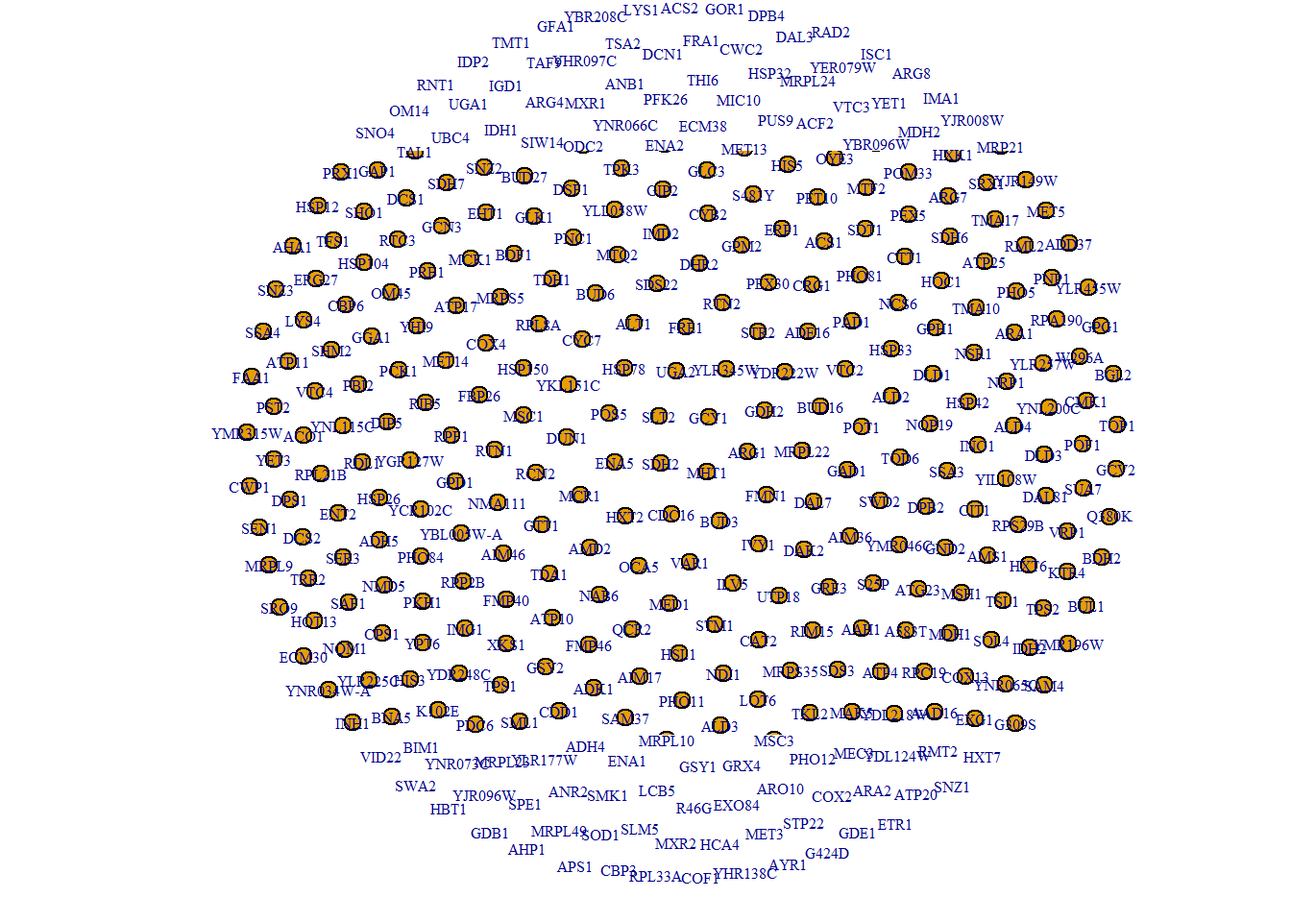
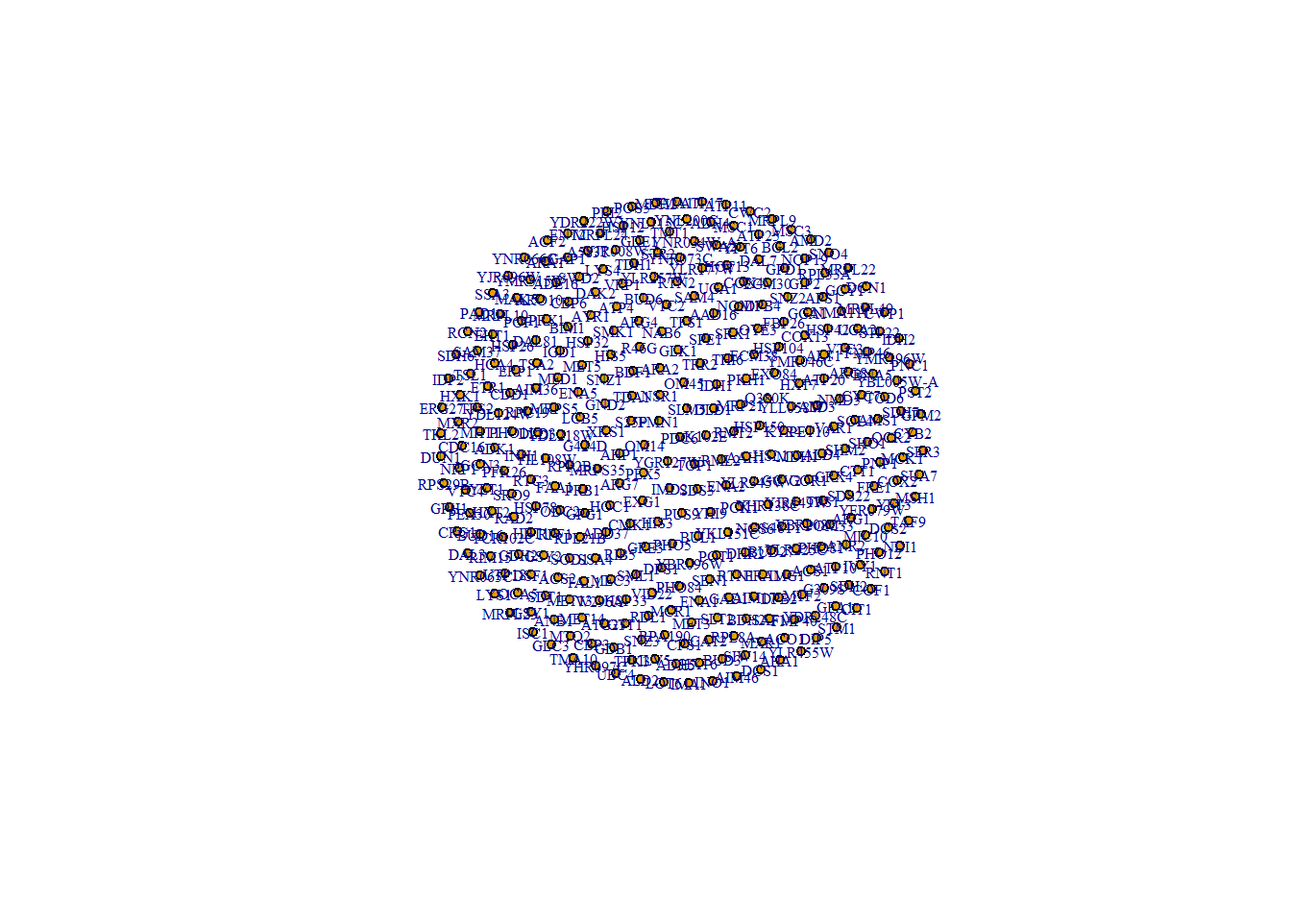
f

Changed region(s): [[0.1562, 0.0, 0.875, 0.9688]]

diff --git a/docs/posts/Final Post/index.html b/docs/posts/Final Post/index.html
@@ -292,15 +292,16 @@ Attaching package: 'igraph'</code></pre>
 <div class="sourceCode cell-code" id="cb7"><pre class="sourceCode r code-with-copy"><code class="sourceCode r"><span id="cb7-1"><a href="#cb7-1" aria-hidden="true" tabindex="-1"></a><span class="co"># Visualize 350 nodes corresponding to the significant hits in our data</span></span>
 <span id="cb7-2"><a href="#cb7-2" aria-hidden="true" tabindex="-1"></a>nodes <span class="ot">&lt;-</span> <span class="fu">unique</span>(<span class="fu">c</span>(proteomic<span class="sc">$</span>contrast, proteomic<span class="sc">$</span>Gene))</span>
 <span id="cb7-3"><a href="#cb7-3" aria-hidden="true" tabindex="-1"></a></span>
-<span id="cb7-4"><a href="#cb7-4" aria-hidden="true" tabindex="-1"></a>g <span class="ot">&lt;-</span> <span class="fu">make_empty_graph</span>()</span>
+<span id="cb7-4"><a href="#cb7-4" aria-hidden="true" tabindex="-1"></a>g <span class="ot">&lt;-</span> <span class="fu">make_empty_graph</span>(<span class="at">directed =</span> <span class="cn">FALSE</span>)</span>
 <span id="cb7-5"><a href="#cb7-5" aria-hidden="true" tabindex="-1"></a>g <span class="ot">&lt;-</span> <span class="fu">add_vertices</span>(g, <span class="fu">length</span>(nodes))</span>
 <span id="cb7-6"><a href="#cb7-6" aria-hidden="true" tabindex="-1"></a><span class="fu">V</span>(g)<span class="sc">$</span>name <span class="ot">&lt;-</span> nodes</span>
 <span id="cb7-7"><a href="#cb7-7" aria-hidden="true" tabindex="-1"></a></span>
 <span id="cb7-8"><a href="#cb7-8" aria-hidden="true" tabindex="-1"></a><span class="fu">plot</span>(g, </span>
 <span id="cb7-9"><a href="#cb7-9" aria-hidden="true" tabindex="-1"></a>     <span class="at">margin =</span> <span class="sc">-</span>.<span class="dv">4</span>,</span>
 <span id="cb7-10"><a href="#cb7-10" aria-hidden="true" tabindex="-1"></a>     <span class="at">vertex.size =</span> <span class="dv">4</span>,</span>
-<span id="cb7-11"><a href="#cb7-11" aria-hidden="true" tabindex="-1"></a>     <span class="at">vertex.label.cex =</span> .<span class="dv">5</span></span>
-<span id="cb7-12"><a href="#cb7-12" aria-hidden="true" tabindex="-1"></a>     )</span></code><button title="Copy to Clipboard" class="code-copy-button"><i class="bi"></i></button></pre></div>
+<span id="cb7-11"><a href="#cb7-11" aria-hidden="true" tabindex="-1"></a>     <span class="at">vertex.label.cex =</span> .<span class="dv">5</span>,</span>
+<span id="cb7-12"><a href="#cb7-12" aria-hidden="true" tabindex="-1"></a>     <span class="at">xlim=</span><span class="fu">c</span>(<span class="sc">-</span><span class="fl">1.5</span>, <span class="fl">1.5</span>), <span class="at">ylim=</span><span class="fu">c</span>(<span class="sc">-</span><span class="fl">1.5</span>,<span class="fl">1.5</span>) </span>
+<span id="cb7-13"><a href="#cb7-13" aria-hidden="true" tabindex="-1"></a>     )</span></code><button title="Copy to Clipboard" class="code-copy-button"><i class="bi"></i></button></pre></div>
 </details>
 <div class="cell-output-display">
 <p><img src="index_files/figure-html/unnamed-chunk-4-1.png" class="img-fluid" width="672"></p>
@@ -322,8 +323,46 @@ Attaching package: 'igraph'</code></pre>
 <span id="cb8-4"><a href="#cb8-4" aria-hidden="true" tabindex="-1"></a>  <span class="at">LogFC =</span> proteomic<span class="sc">$</span>logFC,</span>
 <span id="cb8-5"><a href="#cb8-5" aria-hidden="true" tabindex="-1"></a>  <span class="at">p =</span> proteomic<span class="sc">$</span>P.Value</span>
 <span id="cb8-6"><a href="#cb8-6" aria-hidden="true" tabindex="-1"></a>  </span>
-<span id="cb8-7"><a href="#cb8-7" aria-hidden="true" tabindex="-1"></a>)</span></code><button title="Copy to Clipboard" class="code-copy-button"><i class="bi"></i></button></pre></div>
+<span id="cb8-7"><a href="#cb8-7" aria-hidden="true" tabindex="-1"></a>)</span>
+<span id="cb8-8"><a href="#cb8-8" aria-hidden="true" tabindex="-1"></a></span>
+<span id="cb8-9"><a href="#cb8-9" aria-hidden="true" tabindex="-1"></a><span class="co"># Convert edge list to indices</span></span>
+<span id="cb8-10"><a href="#cb8-10" aria-hidden="true" tabindex="-1"></a>edges<span class="sc">$</span>from <span class="ot">&lt;-</span> <span class="fu">match</span>(edges<span class="sc">$</span>from, nodes)</span>
+<span id="cb8-11"><a href="#cb8-11" aria-hidden="true" tabindex="-1"></a>edges<span class="sc">$</span>to <span class="ot">&lt;-</span> <span class="fu">match</span>(edges<span class="sc">$</span>to, nodes)</span>
+<span id="cb8-12"><a href="#cb8-12" aria-hidden="true" tabindex="-1"></a></span>
+<span id="cb8-13"><a href="#cb8-13" aria-hidden="true" tabindex="-1"></a><span class="co"># create a list of alternating values from 'from' and 'to' columns</span></span>
+<span id="cb8-14"><a href="#cb8-14" aria-hidden="true" tabindex="-1"></a>edge_list <span class="ot">&lt;-</span> <span class="fu">c</span>(<span class="fu">rbind</span>(edges<span class="sc">$</span>from, edges<span class="sc">$</span>to))</span>
+<span id="cb8-15"><a href="#cb8-15" aria-hidden="true" tabindex="-1"></a></span>
+<span id="cb8-16"><a href="#cb8-16" aria-hidden="true" tabindex="-1"></a>g <span class="ot">&lt;-</span> <span class="fu">add_edges</span>(g, <span class="at">edges =</span> edge_list)</span>
+<span id="cb8-17"><a href="#cb8-17" aria-hidden="true" tabindex="-1"></a></span>
+<span id="cb8-18"><a href="#cb8-18" aria-hidden="true" tabindex="-1"></a><span class="co"># Specify edge length based on attribute: LogFC, but undo the Log base 2 so larger LogFC have more influence</span></span>
+<span id="cb8-19"><a href="#cb8-19" aria-hidden="true" tabindex="-1"></a></span>
+<span id="cb8-20"><a href="#cb8-20" aria-hidden="true" tabindex="-1"></a>edge_weights <span class="ot">&lt;-</span> <span class="fu">abs</span>(edges<span class="sc">$</span>LogFC)<span class="sc">^</span><span class="dv">2</span> <span class="sc">+</span> <span class="dv">10</span></span>
+<span id="cb8-21"><a href="#cb8-21" aria-hidden="true" tabindex="-1"></a><span class="fu">E</span>(g)<span class="sc">$</span>weight <span class="ot">&lt;-</span> edge_weights</span>
+<span id="cb8-22"><a href="#cb8-22" aria-hidden="true" tabindex="-1"></a></span>
+<span id="cb8-23"><a href="#cb8-23" aria-hidden="true" tabindex="-1"></a><span class="co"># Plot the network</span></span>
+<span id="cb8-24"><a href="#cb8-24" aria-hidden="true" tabindex="-1"></a><span class="fu">plot</span>(g,</span>
+<span id="cb8-25"><a href="#cb8-25" aria-hidden="true" tabindex="-1"></a>     <span class="at">margin =</span> <span class="sc">-</span><span class="dv">1</span>,</span>
+<span id="cb8-26"><a href="#cb8-26" aria-hidden="true" tabindex="-1"></a>     <span class="at">vertex.size =</span> <span class="dv">4</span>,</span>
+<span id="cb8-27"><a href="#cb8-27" aria-hidden="true" tabindex="-1"></a>     <span class="at">vertex.label.cex =</span> .<span class="dv">5</span>,</span>
+<span id="cb8-28"><a href="#cb8-28" aria-hidden="true" tabindex="-1"></a>     <span class="at">edge_arrow_mode =</span> <span class="dv">0</span>,</span>
+<span id="cb8-29"><a href="#cb8-29" aria-hidden="true" tabindex="-1"></a>     <span class="at">xlim=</span><span class="fu">c</span>(<span class="sc">-</span><span class="dv">2</span>, <span class="dv">2</span>), <span class="at">ylim=</span><span class="fu">c</span>(<span class="sc">-</span><span class="dv">2</span>, <span class="dv">2</span>)</span>
+<span id="cb8-30"><a href="#cb8-30" aria-hidden="true" tabindex="-1"></a>     )</span></code><button title="Copy to Clipboard" class="code-copy-button"><i class="bi"></i></button></pre></div>
 </details>
+<div class="cell-output-display">
+<p><img src="index_files/figure-html/unnamed-chunk-5-1.png" class="img-fluid" width="672"></p>
+</div>
+<details>
+<summary>Code</summary>
+<div class="sourceCode cell-code" id="cb9"><pre class="sourceCode r code-with-copy"><code class="sourceCode r"><span id="cb9-1"><a href="#cb9-1" aria-hidden="true" tabindex="-1"></a><span class="fu">plot</span>(g,</span>
+<span id="cb9-2"><a href="#cb9-2" aria-hidden="true" tabindex="-1"></a>     <span class="at">vertex.size =</span> <span class="dv">4</span>,</span>
+<span id="cb9-3"><a href="#cb9-3" aria-hidden="true" tabindex="-1"></a>     <span class="at">vertex.label.cex =</span> .<span class="dv">5</span>,</span>
+<span id="cb9-4"><a href="#cb9-4" aria-hidden="true" tabindex="-1"></a>     <span class="at">edge_arrow_mode =</span> <span class="dv">0</span>,</span>
+<span id="cb9-5"><a href="#cb9-5" aria-hidden="true" tabindex="-1"></a>     <span class="at">xlim=</span><span class="fu">c</span>(<span class="sc">-</span><span class="fl">1.5</span>, <span class="fl">1.5</span>), <span class="at">ylim=</span><span class="fu">c</span>(<span class="sc">-</span><span class="fl">1.5</span>,<span class="fl">1.5</span>)</span>
+<span id="cb9-6"><a href="#cb9-6" aria-hidden="true" tabindex="-1"></a>     )</span></code><button title="Copy to Clipboard" class="code-copy-button"><i class="bi"></i></button></pre></div>
+</details>
+<div class="cell-output-display">
+<p><img src="index_files/figure-html/unnamed-chunk-5-2.png" class="img-fluid" width="672"></p>
+</div>
 </div>
 
 
@@ -518,106 +557,138 @@ window.document.addEventListener("DOMContentLoaded", function (event) {
   }
 });
 </script><div class="modal fade" id="quarto-embedded-source-code-modal" tabindex="-1" aria-labelledby="quarto-embedded-source-code-modal-label" aria-hidden="true"><div class="modal-dialog modal-dialog-scrollable"><div class="modal-content"><div class="modal-header"><h5 class="modal-title" id="quarto-embedded-source-code-modal-label">Source Code</h5><button class="btn-close" data-bs-dismiss="modal"></button></div><div class="modal-body"><div class="">
-<div class="sourceCode" id="cb9" data-shortcodes="false"><pre class="sourceCode markdown code-with-copy"><code class="sourceCode markdown"><span id="cb9-1"><a href="#cb9-1" aria-hidden="true" tabindex="-1"></a><span class="co">---</span></span>
-<span id="cb9-2"><a href="#cb9-2" aria-hidden="true" tabindex="-1"></a><span class="an">title:</span><span class="co"> "BCB 520 - The Final Portfolio Post"</span></span>
-<span id="cb9-3"><a href="#cb9-3" aria-hidden="true" tabindex="-1"></a><span class="an">subtitle:</span><span class="co"> "Hsp90"</span></span>
-<span id="cb9-4"><a href="#cb9-4" aria-hidden="true" tabindex="-1"></a><span class="an">format:</span></span>
-<span id="cb9-5"><a href="#cb9-5" aria-hidden="true" tabindex="-1"></a><span class="co">  html:</span></span>
-<span id="cb9-6"><a href="#cb9-6" aria-hidden="true" tabindex="-1"></a><span class="co">    toc: false</span></span>
-<span id="cb9-7"><a href="#cb9-7" aria-hidden="true" tabindex="-1"></a><span class="co">    echo: true</span></span>
-<span id="cb9-8"><a href="#cb9-8" aria-hidden="true" tabindex="-1"></a><span class="an">author:</span><span class="co"> "Erick Rios"</span></span>
-<span id="cb9-9"><a href="#cb9-9" aria-hidden="true" tabindex="-1"></a><span class="an">date:</span><span class="co"> "2023-05-03"</span></span>
-<span id="cb9-10"><a href="#cb9-10" aria-hidden="true" tabindex="-1"></a><span class="an">categories:</span><span class="co"> [Portfolio, DataViz, Network, Observable, Assignment]</span></span>
-<span id="cb9-11"><a href="#cb9-11" aria-hidden="true" tabindex="-1"></a><span class="an">image:</span><span class="co"> "yeastbud.png"</span></span>
-<span id="cb9-12"><a href="#cb9-12" aria-hidden="true" tabindex="-1"></a><span class="an">description:</span><span class="co"> "Research"</span></span>
-<span id="cb9-13"><a href="#cb9-13" aria-hidden="true" tabindex="-1"></a><span class="an">code-fold:</span><span class="co"> true</span></span>
-<span id="cb9-14"><a href="#cb9-14" aria-hidden="true" tabindex="-1"></a><span class="an">code-tools:</span><span class="co"> true</span></span>
-<span id="cb9-15"><a href="#cb9-15" aria-hidden="true" tabindex="-1"></a><span class="co">---</span></span>
-<span id="cb9-16"><a href="#cb9-16" aria-hidden="true" tabindex="-1"></a></span>
-<span id="cb9-17"><a href="#cb9-17" aria-hidden="true" tabindex="-1"></a><span class="fu"># The Preamble</span></span>
-<span id="cb9-18"><a href="#cb9-18" aria-hidden="true" tabindex="-1"></a></span>
-<span id="cb9-19"><a href="#cb9-19" aria-hidden="true" tabindex="-1"></a>The focus of my research is the study of Hsp90 molecular chaperone. Over the decades we come to realize this chaperone sits as a major hub of protein-protein interactions (CITE GOPINATH) in which it regulates the folding, activity, and degradation of its clients.</span>
-<span id="cb9-20"><a href="#cb9-20" aria-hidden="true" tabindex="-1"></a></span>
-<span id="cb9-21"><a href="#cb9-21" aria-hidden="true" tabindex="-1"></a>The current study expands the proteomic analysis previously done by us (CITE GENETICS PAPER), here we use quantitative proteomic analysis to compare extracts from yeast expressing wild-type yeast Hsp90 to nine different mutants. Our results demonstrate that the mutants elicit varied proteomic responses, even though the cells were harvested at temperatures that do not significantly affect growth. Overall, these results suggest:</span>
-<span id="cb9-22"><a href="#cb9-22" aria-hidden="true" tabindex="-1"></a></span>
-<span id="cb9-23"><a href="#cb9-23" aria-hidden="true" tabindex="-1"></a><span class="ss">1.  </span>It is possible to selectively inhibit Hsp90 function *in vivo*, and</span>
-<span id="cb9-24"><a href="#cb9-24" aria-hidden="true" tabindex="-1"></a></span>
-<span id="cb9-25"><a href="#cb9-25" aria-hidden="true" tabindex="-1"></a><span class="ss">2.  </span>Identifies **cellular processes** and/or likely **clients** that may be differentially affected by Hsc82 mutation.</span>
-<span id="cb9-26"><a href="#cb9-26" aria-hidden="true" tabindex="-1"></a></span>
-<span id="cb9-27"><a href="#cb9-27" aria-hidden="true" tabindex="-1"></a><span class="fu"># Data</span></span>
-<span id="cb9-28"><a href="#cb9-28" aria-hidden="true" tabindex="-1"></a></span>
-<span id="cb9-29"><a href="#cb9-29" aria-hidden="true" tabindex="-1"></a>Data source:</span>
-<span id="cb9-30"><a href="#cb9-30" aria-hidden="true" tabindex="-1"></a></span>
-<span id="cb9-31"><a href="#cb9-31" aria-hidden="true" tabindex="-1"></a><span class="ss">1.  </span>Main data used in this analysis are the results of Data Independent Acquisition Mass Spectrometry (DIA-MS) experiments, a technique for quantitative proteomics. This is the crux of our study. For brevity, the data has been pre-filtered for significant hits of interest for analysis.</span>
-<span id="cb9-32"><a href="#cb9-32" aria-hidden="true" tabindex="-1"></a></span>
-<span id="cb9-33"><a href="#cb9-33" aria-hidden="true" tabindex="-1"></a><span class="ss">2.  </span>Supporting data/information publicly available on *Saccharomyces Genome Database (SGD)* (MAKE LINK)</span>
-<span id="cb9-34"><a href="#cb9-34" aria-hidden="true" tabindex="-1"></a></span>
-<span id="cb9-35"><a href="#cb9-35" aria-hidden="true" tabindex="-1"></a><span class="ss">-   </span>List of currently known protein **physical** interactors of Hsp90 (Both Hsc82 and Hsp82 isoforms)</span>
-<span id="cb9-36"><a href="#cb9-36" aria-hidden="true" tabindex="-1"></a><span class="ss">-   </span>List of currently known protein **genetic** interactors of Hsp90 (Both Hsc82 and Hsp82 isoforms)</span>
-<span id="cb9-37"><a href="#cb9-37" aria-hidden="true" tabindex="-1"></a><span class="ss">-   </span>Results GO term analysis using GO Slim Mapper</span>
-<span id="cb9-38"><a href="#cb9-38" aria-hidden="true" tabindex="-1"></a></span>
-<span id="cb9-39"><a href="#cb9-39" aria-hidden="true" tabindex="-1"></a><span class="ss">3.  </span>Supporting data/information publicly available on</span>
-<span id="cb9-40"><a href="#cb9-40" aria-hidden="true" tabindex="-1"></a></span>
-<span id="cb9-41"><a href="#cb9-41" aria-hidden="true" tabindex="-1"></a><span class="ss">-   </span>Physical protein attributes such as molecular weight, hydrophobicity, etc.</span>
-<span id="cb9-42"><a href="#cb9-42" aria-hidden="true" tabindex="-1"></a></span>
-<span id="cb9-45"><a href="#cb9-45" aria-hidden="true" tabindex="-1"></a><span class="in">```{r}</span></span>
-<span id="cb9-46"><a href="#cb9-46" aria-hidden="true" tabindex="-1"></a><span class="co"># Load in our data</span></span>
-<span id="cb9-47"><a href="#cb9-47" aria-hidden="true" tabindex="-1"></a>proteomic <span class="ot">&lt;-</span> <span class="fu">read.csv</span>(<span class="st">"trimmed_proteomic_Data.csv"</span>)</span>
-<span id="cb9-48"><a href="#cb9-48" aria-hidden="true" tabindex="-1"></a></span>
-<span id="cb9-49"><a href="#cb9-49" aria-hidden="true" tabindex="-1"></a></span>
-<span id="cb9-50"><a href="#cb9-50" aria-hidden="true" tabindex="-1"></a><span class="in">```</span></span>
-<span id="cb9-51"><a href="#cb9-51" aria-hidden="true" tabindex="-1"></a></span>
-<span id="cb9-52"><a href="#cb9-52" aria-hidden="true" tabindex="-1"></a>Data Dictionary</span>
-<span id="cb9-53"><a href="#cb9-53" aria-hidden="true" tabindex="-1"></a></span>
-<span id="cb9-56"><a href="#cb9-56" aria-hidden="true" tabindex="-1"></a><span class="in">```{r}</span></span>
-<span id="cb9-57"><a href="#cb9-57" aria-hidden="true" tabindex="-1"></a><span class="in">```</span></span>
-<span id="cb9-58"><a href="#cb9-58" aria-hidden="true" tabindex="-1"></a></span>
-<span id="cb9-59"><a href="#cb9-59" aria-hidden="true" tabindex="-1"></a><span class="fu"># Visualization</span></span>
-<span id="cb9-60"><a href="#cb9-60" aria-hidden="true" tabindex="-1"></a></span>
-<span id="cb9-61"><a href="#cb9-61" aria-hidden="true" tabindex="-1"></a><span class="fu">## Creating Figure 1: Basic static 'network'</span></span>
-<span id="cb9-62"><a href="#cb9-62" aria-hidden="true" tabindex="-1"></a></span>
-<span id="cb9-65"><a href="#cb9-65" aria-hidden="true" tabindex="-1"></a><span class="in">```{r}</span></span>
-<span id="cb9-66"><a href="#cb9-66" aria-hidden="true" tabindex="-1"></a><span class="fu">library</span>(igraph)</span>
-<span id="cb9-67"><a href="#cb9-67" aria-hidden="true" tabindex="-1"></a><span class="in">```</span></span>
-<span id="cb9-68"><a href="#cb9-68" aria-hidden="true" tabindex="-1"></a></span>
-<span id="cb9-69"><a href="#cb9-69" aria-hidden="true" tabindex="-1"></a><span class="fu">### NODES</span></span>
-<span id="cb9-70"><a href="#cb9-70" aria-hidden="true" tabindex="-1"></a></span>
-<span id="cb9-71"><a href="#cb9-71" aria-hidden="true" tabindex="-1"></a>Since our objective is to construct a protein interaction network, intuitively our nodes will be our significant hits found in our study. However, we must also include our experimental variables, in this case single point mutations in the Hsp90 chaperone, this will help promote separation/clustering between nodes later when we apply our measurements from DIA-MS.</span>
-<span id="cb9-72"><a href="#cb9-72" aria-hidden="true" tabindex="-1"></a></span>
-<span id="cb9-75"><a href="#cb9-75" aria-hidden="true" tabindex="-1"></a><span class="in">```{r}</span></span>
-<span id="cb9-76"><a href="#cb9-76" aria-hidden="true" tabindex="-1"></a><span class="co"># Visualize 350 nodes corresponding to the significant hits in our data</span></span>
-<span id="cb9-77"><a href="#cb9-77" aria-hidden="true" tabindex="-1"></a>nodes <span class="ot">&lt;-</span> <span class="fu">unique</span>(<span class="fu">c</span>(proteomic<span class="sc">$</span>contrast, proteomic<span class="sc">$</span>Gene))</span>
-<span id="cb9-78"><a href="#cb9-78" aria-hidden="true" tabindex="-1"></a></span>
-<span id="cb9-79"><a href="#cb9-79" aria-hidden="true" tabindex="-1"></a>g <span class="ot">&lt;-</span> <span class="fu">make_empty_graph</span>()</span>
-<span id="cb9-80"><a href="#cb9-80" aria-hidden="true" tabindex="-1"></a>g <span class="ot">&lt;-</span> <span class="fu">add_vertices</span>(g, <span class="fu">length</span>(nodes))</span>
-<span id="cb9-81"><a href="#cb9-81" aria-hidden="true" tabindex="-1"></a><span class="fu">V</span>(g)<span class="sc">$</span>name <span class="ot">&lt;-</span> nodes</span>
-<span id="cb9-82"><a href="#cb9-82" aria-hidden="true" tabindex="-1"></a></span>
-<span id="cb9-83"><a href="#cb9-83" aria-hidden="true" tabindex="-1"></a><span class="fu">plot</span>(g, </span>
-<span id="cb9-84"><a href="#cb9-84" aria-hidden="true" tabindex="-1"></a>     <span class="at">margin =</span> <span class="sc">-</span>.<span class="dv">4</span>,</span>
-<span id="cb9-85"><a href="#cb9-85" aria-hidden="true" tabindex="-1"></a>     <span class="at">vertex.size =</span> <span class="dv">4</span>,</span>
-<span id="cb9-86"><a href="#cb9-86" aria-hidden="true" tabindex="-1"></a>     <span class="at">vertex.label.cex =</span> .<span class="dv">5</span></span>
-<span id="cb9-87"><a href="#cb9-87" aria-hidden="true" tabindex="-1"></a>     )</span>
-<span id="cb9-88"><a href="#cb9-88" aria-hidden="true" tabindex="-1"></a><span class="in">```</span></span>
-<span id="cb9-89"><a href="#cb9-89" aria-hidden="true" tabindex="-1"></a></span>
-<span id="cb9-90"><a href="#cb9-90" aria-hidden="true" tabindex="-1"></a>Now we must establish the relationship between these nodes. Starting with the relationship between our protein hits and experimental variables (Hsp90 mutants). These proteins were found to have a significant change in abundance when at least one mutant Hsp90 is expressed as the sole source of Hsp90.</span>
-<span id="cb9-91"><a href="#cb9-91" aria-hidden="true" tabindex="-1"></a></span>
-<span id="cb9-92"><a href="#cb9-92" aria-hidden="true" tabindex="-1"></a><span class="ss">-   </span>Color the edges of the protein-mutant relationship based on increase or decrease (green / red;consider color blind plebs though.)</span>
-<span id="cb9-93"><a href="#cb9-93" aria-hidden="true" tabindex="-1"></a></span>
-<span id="cb9-94"><a href="#cb9-94" aria-hidden="true" tabindex="-1"></a><span class="ss">-   </span>Edge thickness can be p value of measurement and/or</span>
-<span id="cb9-95"><a href="#cb9-95" aria-hidden="true" tabindex="-1"></a></span>
-<span id="cb9-96"><a href="#cb9-96" aria-hidden="true" tabindex="-1"></a><span class="ss">-   </span>edge color opacity/transparency for p value</span>
-<span id="cb9-97"><a href="#cb9-97" aria-hidden="true" tabindex="-1"></a></span>
-<span id="cb9-98"><a href="#cb9-98" aria-hidden="true" tabindex="-1"></a><span class="ss">-   </span>Edge length will be Log base 2 fold change; this will pull proteins nodes towards mutants that have significant impact on said protein</span>
-<span id="cb9-99"><a href="#cb9-99" aria-hidden="true" tabindex="-1"></a></span>
-<span id="cb9-102"><a href="#cb9-102" aria-hidden="true" tabindex="-1"></a><span class="in">```{r}</span></span>
-<span id="cb9-103"><a href="#cb9-103" aria-hidden="true" tabindex="-1"></a>edges <span class="ot">&lt;-</span> <span class="fu">data.frame</span>(</span>
-<span id="cb9-104"><a href="#cb9-104" aria-hidden="true" tabindex="-1"></a>  <span class="at">from =</span> proteomic<span class="sc">$</span>Gene,</span>
-<span id="cb9-105"><a href="#cb9-105" aria-hidden="true" tabindex="-1"></a>  <span class="at">to =</span> proteomic<span class="sc">$</span>contrast,</span>
-<span id="cb9-106"><a href="#cb9-106" aria-hidden="true" tabindex="-1"></a>  <span class="at">LogFC =</span> proteomic<span class="sc">$</span>logFC,</span>
-<span id="cb9-107"><a href="#cb9-107" aria-hidden="true" tabindex="-1"></a>  <span class="at">p =</span> proteomic<span class="sc">$</span>P.Value</span>
-<span id="cb9-108"><a href="#cb9-108" aria-hidden="true" tabindex="-1"></a>  </span>
-<span id="cb9-109"><a href="#cb9-109" aria-hidden="true" tabindex="-1"></a>)</span>
-<span id="cb9-110"><a href="#cb9-110" aria-hidden="true" tabindex="-1"></a><span class="in">```</span></span>
+<div class="sourceCode" id="cb10" data-shortcodes="false"><pre class="sourceCode markdown code-with-copy"><code class="sourceCode markdown"><span id="cb10-1"><a href="#cb10-1" aria-hidden="true" tabindex="-1"></a><span class="co">---</span></span>
+<span id="cb10-2"><a href="#cb10-2" aria-hidden="true" tabindex="-1"></a><span class="an">title:</span><span class="co"> "BCB 520 - The Final Portfolio Post"</span></span>
+<span id="cb10-3"><a href="#cb10-3" aria-hidden="true" tabindex="-1"></a><span class="an">subtitle:</span><span class="co"> "Hsp90"</span></span>
+<span id="cb10-4"><a href="#cb10-4" aria-hidden="true" tabindex="-1"></a><span class="an">format:</span></span>
+<span id="cb10-5"><a href="#cb10-5" aria-hidden="true" tabindex="-1"></a><span class="co">  html:</span></span>
+<span id="cb10-6"><a href="#cb10-6" aria-hidden="true" tabindex="-1"></a><span class="co">    toc: false</span></span>
+<span id="cb10-7"><a href="#cb10-7" aria-hidden="true" tabindex="-1"></a><span class="co">    echo: true</span></span>
+<span id="cb10-8"><a href="#cb10-8" aria-hidden="true" tabindex="-1"></a><span class="an">author:</span><span class="co"> "Erick Rios"</span></span>
+<span id="cb10-9"><a href="#cb10-9" aria-hidden="true" tabindex="-1"></a><span class="an">date:</span><span class="co"> "2023-05-03"</span></span>
+<span id="cb10-10"><a href="#cb10-10" aria-hidden="true" tabindex="-1"></a><span class="an">categories:</span><span class="co"> [Portfolio, DataViz, Network, Observable, Assignment]</span></span>
+<span id="cb10-11"><a href="#cb10-11" aria-hidden="true" tabindex="-1"></a><span class="an">image:</span><span class="co"> "yeastbud.png"</span></span>
+<span id="cb10-12"><a href="#cb10-12" aria-hidden="true" tabindex="-1"></a><span class="an">description:</span><span class="co"> "Research"</span></span>
+<span id="cb10-13"><a href="#cb10-13" aria-hidden="true" tabindex="-1"></a><span class="an">code-fold:</span><span class="co"> true</span></span>
+<span id="cb10-14"><a href="#cb10-14" aria-hidden="true" tabindex="-1"></a><span class="an">code-tools:</span><span class="co"> true</span></span>
+<span id="cb10-15"><a href="#cb10-15" aria-hidden="true" tabindex="-1"></a><span class="co">---</span></span>
+<span id="cb10-16"><a href="#cb10-16" aria-hidden="true" tabindex="-1"></a></span>
+<span id="cb10-17"><a href="#cb10-17" aria-hidden="true" tabindex="-1"></a><span class="fu"># The Preamble</span></span>
+<span id="cb10-18"><a href="#cb10-18" aria-hidden="true" tabindex="-1"></a></span>
+<span id="cb10-19"><a href="#cb10-19" aria-hidden="true" tabindex="-1"></a>The focus of my research is the study of Hsp90 molecular chaperone. Over the decades we come to realize this chaperone sits as a major hub of protein-protein interactions (CITE GOPINATH) in which it regulates the folding, activity, and degradation of its clients.</span>
+<span id="cb10-20"><a href="#cb10-20" aria-hidden="true" tabindex="-1"></a></span>
+<span id="cb10-21"><a href="#cb10-21" aria-hidden="true" tabindex="-1"></a>The current study expands the proteomic analysis previously done by us (CITE GENETICS PAPER), here we use quantitative proteomic analysis to compare extracts from yeast expressing wild-type yeast Hsp90 to nine different mutants. Our results demonstrate that the mutants elicit varied proteomic responses, even though the cells were harvested at temperatures that do not significantly affect growth. Overall, these results suggest:</span>
+<span id="cb10-22"><a href="#cb10-22" aria-hidden="true" tabindex="-1"></a></span>
+<span id="cb10-23"><a href="#cb10-23" aria-hidden="true" tabindex="-1"></a><span class="ss">1.  </span>It is possible to selectively inhibit Hsp90 function *in vivo*, and</span>
+<span id="cb10-24"><a href="#cb10-24" aria-hidden="true" tabindex="-1"></a></span>
+<span id="cb10-25"><a href="#cb10-25" aria-hidden="true" tabindex="-1"></a><span class="ss">2.  </span>Identifies **cellular processes** and/or likely **clients** that may be differentially affected by Hsc82 mutation.</span>
+<span id="cb10-26"><a href="#cb10-26" aria-hidden="true" tabindex="-1"></a></span>
+<span id="cb10-27"><a href="#cb10-27" aria-hidden="true" tabindex="-1"></a><span class="fu"># Data</span></span>
+<span id="cb10-28"><a href="#cb10-28" aria-hidden="true" tabindex="-1"></a></span>
+<span id="cb10-29"><a href="#cb10-29" aria-hidden="true" tabindex="-1"></a>Data source:</span>
+<span id="cb10-30"><a href="#cb10-30" aria-hidden="true" tabindex="-1"></a></span>
+<span id="cb10-31"><a href="#cb10-31" aria-hidden="true" tabindex="-1"></a><span class="ss">1.  </span>Main data used in this analysis are the results of Data Independent Acquisition Mass Spectrometry (DIA-MS) experiments, a technique for quantitative proteomics. This is the crux of our study. For brevity, the data has been pre-filtered for significant hits of interest for analysis.</span>
+<span id="cb10-32"><a href="#cb10-32" aria-hidden="true" tabindex="-1"></a></span>
+<span id="cb10-33"><a href="#cb10-33" aria-hidden="true" tabindex="-1"></a><span class="ss">2.  </span>Supporting data/information publicly available on *Saccharomyces Genome Database (SGD)* (MAKE LINK)</span>
+<span id="cb10-34"><a href="#cb10-34" aria-hidden="true" tabindex="-1"></a></span>
+<span id="cb10-35"><a href="#cb10-35" aria-hidden="true" tabindex="-1"></a><span class="ss">-   </span>List of currently known protein **physical** interactors of Hsp90 (Both Hsc82 and Hsp82 isoforms)</span>
+<span id="cb10-36"><a href="#cb10-36" aria-hidden="true" tabindex="-1"></a><span class="ss">-   </span>List of currently known protein **genetic** interactors of Hsp90 (Both Hsc82 and Hsp82 isoforms)</span>
+<span id="cb10-37"><a href="#cb10-37" aria-hidden="true" tabindex="-1"></a><span class="ss">-   </span>Results GO term analysis using GO Slim Mapper</span>
+<span id="cb10-38"><a href="#cb10-38" aria-hidden="true" tabindex="-1"></a></span>
+<span id="cb10-39"><a href="#cb10-39" aria-hidden="true" tabindex="-1"></a><span class="ss">3.  </span>Supporting data/information publicly available on</span>
+<span id="cb10-40"><a href="#cb10-40" aria-hidden="true" tabindex="-1"></a></span>
+<span id="cb10-41"><a href="#cb10-41" aria-hidden="true" tabindex="-1"></a><span class="ss">-   </span>Physical protein attributes such as molecular weight, hydrophobicity, etc.</span>
+<span id="cb10-42"><a href="#cb10-42" aria-hidden="true" tabindex="-1"></a></span>
+<span id="cb10-45"><a href="#cb10-45" aria-hidden="true" tabindex="-1"></a><span class="in">```{r}</span></span>
+<span id="cb10-46"><a href="#cb10-46" aria-hidden="true" tabindex="-1"></a><span class="co"># Load in our data</span></span>
+<span id="cb10-47"><a href="#cb10-47" aria-hidden="true" tabindex="-1"></a>proteomic <span class="ot">&lt;-</span> <span class="fu">read.csv</span>(<span class="st">"trimmed_proteomic_Data.csv"</span>)</span>
+<span id="cb10-48"><a href="#cb10-48" aria-hidden="true" tabindex="-1"></a></span>
+<span id="cb10-49"><a href="#cb10-49" aria-hidden="true" tabindex="-1"></a></span>
+<span id="cb10-50"><a href="#cb10-50" aria-hidden="true" tabindex="-1"></a><span class="in">```</span></span>
+<span id="cb10-51"><a href="#cb10-51" aria-hidden="true" tabindex="-1"></a></span>
+<span id="cb10-52"><a href="#cb10-52" aria-hidden="true" tabindex="-1"></a>Data Dictionary</span>
+<span id="cb10-53"><a href="#cb10-53" aria-hidden="true" tabindex="-1"></a></span>
+<span id="cb10-56"><a href="#cb10-56" aria-hidden="true" tabindex="-1"></a><span class="in">```{r}</span></span>
+<span id="cb10-57"><a href="#cb10-57" aria-hidden="true" tabindex="-1"></a><span class="in">```</span></span>
+<span id="cb10-58"><a href="#cb10-58" aria-hidden="true" tabindex="-1"></a></span>
+<span id="cb10-59"><a href="#cb10-59" aria-hidden="true" tabindex="-1"></a><span class="fu"># Visualization</span></span>
+<span id="cb10-60"><a href="#cb10-60" aria-hidden="true" tabindex="-1"></a></span>
+<span id="cb10-61"><a href="#cb10-61" aria-hidden="true" tabindex="-1"></a><span class="fu">## Creating Figure 1: Basic static 'network'</span></span>
+<span id="cb10-62"><a href="#cb10-62" aria-hidden="true" tabindex="-1"></a></span>
+<span id="cb10-65"><a href="#cb10-65" aria-hidden="true" tabindex="-1"></a><span class="in">```{r}</span></span>
+<span id="cb10-66"><a href="#cb10-66" aria-hidden="true" tabindex="-1"></a><span class="fu">library</span>(igraph)</span>
+<span id="cb10-67"><a href="#cb10-67" aria-hidden="true" tabindex="-1"></a><span class="in">```</span></span>
+<span id="cb10-68"><a href="#cb10-68" aria-hidden="true" tabindex="-1"></a></span>
+<span id="cb10-69"><a href="#cb10-69" aria-hidden="true" tabindex="-1"></a><span class="fu">### NODES</span></span>
+<span id="cb10-70"><a href="#cb10-70" aria-hidden="true" tabindex="-1"></a></span>
+<span id="cb10-71"><a href="#cb10-71" aria-hidden="true" tabindex="-1"></a>Since our objective is to construct a protein interaction network, intuitively our nodes will be our significant hits found in our study. However, we must also include our experimental variables, in this case single point mutations in the Hsp90 chaperone, this will help promote separation/clustering between nodes later when we apply our measurements from DIA-MS.</span>
+<span id="cb10-72"><a href="#cb10-72" aria-hidden="true" tabindex="-1"></a></span>
+<span id="cb10-75"><a href="#cb10-75" aria-hidden="true" tabindex="-1"></a><span class="in">```{r}</span></span>
+<span id="cb10-76"><a href="#cb10-76" aria-hidden="true" tabindex="-1"></a><span class="co"># Visualize 350 nodes corresponding to the significant hits in our data</span></span>
+<span id="cb10-77"><a href="#cb10-77" aria-hidden="true" tabindex="-1"></a>nodes <span class="ot">&lt;-</span> <span class="fu">unique</span>(<span class="fu">c</span>(proteomic<span class="sc">$</span>contrast, proteomic<span class="sc">$</span>Gene))</span>
+<span id="cb10-78"><a href="#cb10-78" aria-hidden="true" tabindex="-1"></a></span>
+<span id="cb10-79"><a href="#cb10-79" aria-hidden="true" tabindex="-1"></a>g <span class="ot">&lt;-</span> <span class="fu">make_empty_graph</span>(<span class="at">directed =</span> <span class="cn">FALSE</span>)</span>
+<span id="cb10-80"><a href="#cb10-80" aria-hidden="true" tabindex="-1"></a>g <span class="ot">&lt;-</span> <span class="fu">add_vertices</span>(g, <span class="fu">length</span>(nodes))</span>
+<span id="cb10-81"><a href="#cb10-81" aria-hidden="true" tabindex="-1"></a><span class="fu">V</span>(g)<span class="sc">$</span>name <span class="ot">&lt;-</span> nodes</span>
+<span id="cb10-82"><a href="#cb10-82" aria-hidden="true" tabindex="-1"></a></span>
+<span id="cb10-83"><a href="#cb10-83" aria-hidden="true" tabindex="-1"></a><span class="fu">plot</span>(g, </span>
+<span id="cb10-84"><a href="#cb10-84" aria-hidden="true" tabindex="-1"></a>     <span class="at">margin =</span> <span class="sc">-</span>.<span class="dv">4</span>,</span>
+<span id="cb10-85"><a href="#cb10-85" aria-hidden="true" tabindex="-1"></a>     <span class="at">vertex.size =</span> <span class="dv">4</span>,</span>
+<span id="cb10-86"><a href="#cb10-86" aria-hidden="true" tabindex="-1"></a>     <span class="at">vertex.label.cex =</span> .<span class="dv">5</span>,</span>
+<span id="cb10-87"><a href="#cb10-87" aria-hidden="true" tabindex="-1"></a>     <span class="at">xlim=</span><span class="fu">c</span>(<span class="sc">-</span><span class="fl">1.5</span>, <span class="fl">1.5</span>), <span class="at">ylim=</span><span class="fu">c</span>(<span class="sc">-</span><span class="fl">1.5</span>,<span class="fl">1.5</span>) </span>
+<span id="cb10-88"><a href="#cb10-88" aria-hidden="true" tabindex="-1"></a>     )</span>
+<span id="cb10-89"><a href="#cb10-89" aria-hidden="true" tabindex="-1"></a><span class="in">```</span></span>
+<span id="cb10-90"><a href="#cb10-90" aria-hidden="true" tabindex="-1"></a></span>
+<span id="cb10-91"><a href="#cb10-91" aria-hidden="true" tabindex="-1"></a>Now we must establish the relationship between these nodes. Starting with the relationship between our protein hits and experimental variables (Hsp90 mutants). These proteins were found to have a significant change in abundance when at least one mutant Hsp90 is expressed as the sole source of Hsp90.</span>
+<span id="cb10-92"><a href="#cb10-92" aria-hidden="true" tabindex="-1"></a></span>
+<span id="cb10-93"><a href="#cb10-93" aria-hidden="true" tabindex="-1"></a><span class="ss">-   </span>Color the edges of the protein-mutant relationship based on increase or decrease (green / red;consider color blind plebs though.)</span>
+<span id="cb10-94"><a href="#cb10-94" aria-hidden="true" tabindex="-1"></a></span>
+<span id="cb10-95"><a href="#cb10-95" aria-hidden="true" tabindex="-1"></a><span class="ss">-   </span>Edge thickness can be p value of measurement and/or</span>
+<span id="cb10-96"><a href="#cb10-96" aria-hidden="true" tabindex="-1"></a></span>
+<span id="cb10-97"><a href="#cb10-97" aria-hidden="true" tabindex="-1"></a><span class="ss">-   </span>edge color opacity/transparency for p value</span>
+<span id="cb10-98"><a href="#cb10-98" aria-hidden="true" tabindex="-1"></a></span>
+<span id="cb10-99"><a href="#cb10-99" aria-hidden="true" tabindex="-1"></a><span class="ss">-   </span>Edge length will be Log base 2 fold change; this will pull proteins nodes towards mutants that have significant impact on said protein</span>
+<span id="cb10-100"><a href="#cb10-100" aria-hidden="true" tabindex="-1"></a></span>
+<span id="cb10-103"><a href="#cb10-103" aria-hidden="true" tabindex="-1"></a><span class="in">```{r}</span></span>
+<span id="cb10-104"><a href="#cb10-104" aria-hidden="true" tabindex="-1"></a>edges <span class="ot">&lt;-</span> <span class="fu">data.frame</span>(</span>
+<span id="cb10-105"><a href="#cb10-105" aria-hidden="true" tabindex="-1"></a>  <span class="at">from =</span> proteomic<span class="sc">$</span>Gene,</span>
+<span id="cb10-106"><a href="#cb10-106" aria-hidden="true" tabindex="-1"></a>  <span class="at">to =</span> proteomic<span class="sc">$</span>contrast,</span>
+<span id="cb10-107"><a href="#cb10-107" aria-hidden="true" tabindex="-1"></a>  <span class="at">LogFC =</span> proteomic<span class="sc">$</span>logFC,</span>
+<span id="cb10-108"><a href="#cb10-108" aria-hidden="true" tabindex="-1"></a>  <span class="at">p =</span> proteomic<span class="sc">$</span>P.Value</span>
+<span id="cb10-109"><a href="#cb10-109" aria-hidden="true" tabindex="-1"></a>  </span>
+<span id="cb10-110"><a href="#cb10-110" aria-hidden="true" tabindex="-1"></a>)</span>
+<span id="cb10-111"><a href="#cb10-111" aria-hidden="true" tabindex="-1"></a></span>
+<span id="cb10-112"><a href="#cb10-112" aria-hidden="true" tabindex="-1"></a><span class="co"># Convert edge list to indices</span></span>
+<span id="cb10-113"><a href="#cb10-113" aria-hidden="true" tabindex="-1"></a>edges<span class="sc">$</span>from <span class="ot">&lt;-</span> <span class="fu">match</span>(edges<span class="sc">$</span>from, nodes)</span>
+<span id="cb10-114"><a href="#cb10-114" aria-hidden="true" tabindex="-1"></a>edges<span class="sc">$</span>to <span class="ot">&lt;-</span> <span class="fu">match</span>(edges<span class="sc">$</span>to, nodes)</span>
+<span id="cb10-115"><a href="#cb10-115" aria-hidden="true" tabindex="-1"></a></span>
+<span id="cb10-116"><a href="#cb10-116" aria-hidden="true" tabindex="-1"></a><span class="co"># create a list of alternating values from 'from' and 'to' columns</span></span>
+<span id="cb10-117"><a href="#cb10-117" aria-hidden="true" tabindex="-1"></a>edge_list <span class="ot">&lt;-</span> <span class="fu">c</span>(<span class="fu">rbind</span>(edges<span class="sc">$</span>from, edges<span class="sc">$</span>to))</span>
+<span id="cb10-118"><a href="#cb10-118" aria-hidden="true" tabindex="-1"></a></span>
+<span id="cb10-119"><a href="#cb10-119" aria-hidden="true" tabindex="-1"></a>g <span class="ot">&lt;-</span> <span class="fu">add_edges</span>(g, <span class="at">edges =</span> edge_list)</span>
+<span id="cb10-120"><a href="#cb10-120" aria-hidden="true" tabindex="-1"></a></span>
+<span id="cb10-121"><a href="#cb10-121" aria-hidden="true" tabindex="-1"></a><span class="co"># Specify edge length based on attribute: LogFC, but undo the Log base 2 so larger LogFC have more influence</span></span>
+<span id="cb10-122"><a href="#cb10-122" aria-hidden="true" tabindex="-1"></a></span>
+<span id="cb10-123"><a href="#cb10-123" aria-hidden="true" tabindex="-1"></a>edge_weights <span class="ot">&lt;-</span> <span class="fu">abs</span>(edges<span class="sc">$</span>LogFC)<span class="sc">^</span><span class="dv">2</span> <span class="sc">+</span> <span class="dv">10</span></span>
+<span id="cb10-124"><a href="#cb10-124" aria-hidden="true" tabindex="-1"></a><span class="fu">E</span>(g)<span class="sc">$</span>weight <span class="ot">&lt;-</span> edge_weights</span>
+<span id="cb10-125"><a href="#cb10-125" aria-hidden="true" tabindex="-1"></a></span>
+<span id="cb10-126"><a href="#cb10-126" aria-hidden="true" tabindex="-1"></a><span class="co"># Plot the network</span></span>
+<span id="cb10-127"><a href="#cb10-127" aria-hidden="true" tabindex="-1"></a><span class="fu">plot</span>(g,</span>
+<span id="cb10-128"><a href="#cb10-128" aria-hidden="true" tabindex="-1"></a>     <span class="at">margin =</span> <span class="sc">-</span><span class="dv">1</span>,</span>
+<span id="cb10-129"><a href="#cb10-129" aria-hidden="true" tabindex="-1"></a>     <span class="at">vertex.size =</span> <span class="dv">4</span>,</span>
+<span id="cb10-130"><a href="#cb10-130" aria-hidden="true" tabindex="-1"></a>     <span class="at">vertex.label.cex =</span> .<span class="dv">5</span>,</span>
+<span id="cb10-131"><a href="#cb10-131" aria-hidden="true" tabindex="-1"></a>     <span class="at">edge_arrow_mode =</span> <span class="dv">0</span>,</span>
+<span id="cb10-132"><a href="#cb10-132" aria-hidden="true" tabindex="-1"></a>     <span class="at">xlim=</span><span class="fu">c</span>(<span class="sc">-</span><span class="dv">2</span>, <span class="dv">2</span>), <span class="at">ylim=</span><span class="fu">c</span>(<span class="sc">-</span><span class="dv">2</span>, <span class="dv">2</span>)</span>
+<span id="cb10-133"><a href="#cb10-133" aria-hidden="true" tabindex="-1"></a>     )</span>
+<span id="cb10-134"><a href="#cb10-134" aria-hidden="true" tabindex="-1"></a></span>
+<span id="cb10-135"><a href="#cb10-135" aria-hidden="true" tabindex="-1"></a></span>
+<span id="cb10-136"><a href="#cb10-136" aria-hidden="true" tabindex="-1"></a><span class="fu">plot</span>(g,</span>
+<span id="cb10-137"><a href="#cb10-137" aria-hidden="true" tabindex="-1"></a>     <span class="at">vertex.size =</span> <span class="dv">4</span>,</span>
+<span id="cb10-138"><a href="#cb10-138" aria-hidden="true" tabindex="-1"></a>     <span class="at">vertex.label.cex =</span> .<span class="dv">5</span>,</span>
+<span id="cb10-139"><a href="#cb10-139" aria-hidden="true" tabindex="-1"></a>     <span class="at">edge_arrow_mode =</span> <span class="dv">0</span>,</span>
+<span id="cb10-140"><a href="#cb10-140" aria-hidden="true" tabindex="-1"></a>     <span class="at">xlim=</span><span class="fu">c</span>(<span class="sc">-</span><span class="fl">1.5</span>, <span class="fl">1.5</span>), <span class="at">ylim=</span><span class="fu">c</span>(<span class="sc">-</span><span class="fl">1.5</span>,<span class="fl">1.5</span>)</span>
+<span id="cb10-141"><a href="#cb10-141" aria-hidden="true" tabindex="-1"></a>     )</span>
+<span id="cb10-142"><a href="#cb10-142" aria-hidden="true" tabindex="-1"></a><span class="in">```</span></span>
 </code><button title="Copy to Clipboard" class="code-copy-button"><i class="bi"></i></button></pre></div>
 </div></div></div></div></div>
 </div> <!-- /content -->

diff --git a/docs/index.html b/docs/index.html
@@ -166,7 +166,7 @@ ul.task-list li input[type="checkbox"] {
 
 <div class="quarto-listing quarto-listing-container-default" id="listing-listing">
 <div class="list quarto-listing-default">
-<div class="quarto-post image-right" data-index="0" data-categories="Portfolio,DataViz,Network,Observable,Assignment" data-listing-date-sort="1683097200000" data-listing-file-modified-sort="1683228674368" data-listing-reading-time-sort="2.475">
+<div class="quarto-post image-right" data-index="0" data-categories="Portfolio,DataViz,Network,Observable,Assignment" data-listing-date-sort="1683097200000" data-listing-file-modified-sort="1683314580965" data-listing-reading-time-sort="3.185">
 <div class="thumbnail">
 <p><a href="./posts/Final Post/index.html"> <img src="./posts/Final Post/yeastbud.png" class="thumnail-image"> </a></p>
 </div>
